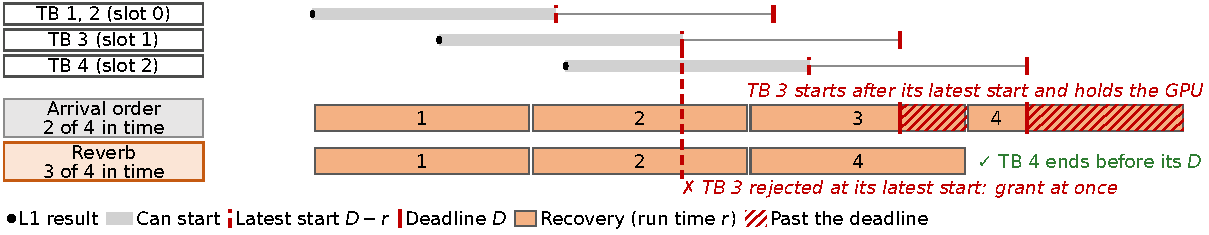
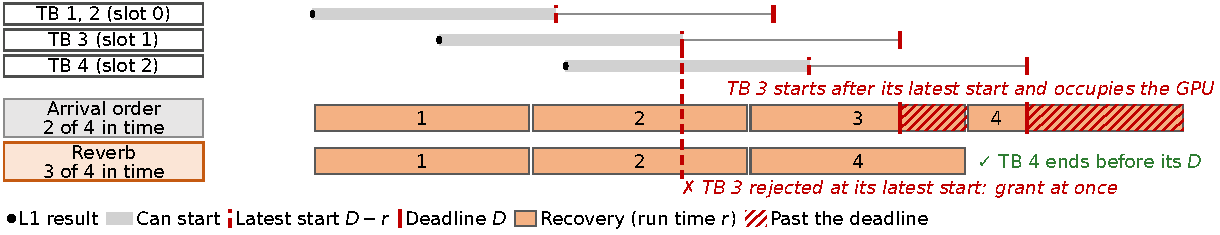
Figure 11 says the late recovery occupies the GPU (no 'holds'); retransmission and lost-TB panels with the second seed set of the direct path (n3_uma_los_more_f35)

diff --git a/figures/paper/src/design_schedule.tex b/figures/paper/src/design_schedule.tex
@@ -2,7 +2,7 @@
 % TB 3 from slot 1 and TB 4 from slot 2.  Each TB can start its recovery from its L1 result until its latest start time
 % D - r and must finish by its deadline D (11.0 ms after its slot; the run time is drawn as the 4.3 ms of the network
 % alone to keep the example short).  In arrival order without rejection, TB 3 starts after its latest start, runs past
-% its deadline and holds the GPU, so TB 4 also ends past its deadline: 2 of 4 TBs are recovered in time.  Reverb rejects
+% its deadline and occupies the GPU, so TB 4 also ends past its deadline: 2 of 4 TBs are recovered in time.  Reverb rejects
 % TB 3 at its latest start (its grant goes out at once) and recovers TB 4: 3 of 4 in time.  With the same deadline rule
 % in every cell, the deadline order equals the arrival order; the difference is the rejection.  No value is printed.
 \documentclass[border=1pt]{standalone}
@@ -27,7 +27,7 @@
     \newcommand{\job}[3]{% start, lane y, label
       \node[cl, fill=nrxc, minimum width={0.585*\r cm - 0.04cm}, minimum height=0.3cm, anchor=west] at (#1 + 0.035, #2) {#3};}
     % arrival order without rejection
-    \node[key, font=\tabsize\itshape, anchor=west] at (10.4, -0.88) {TB 3 starts after its latest start and holds the GPU};
+    \node[key, font=\tabsize\itshape, anchor=west] at (10.0, -0.88) {TB 3 starts after its latest start and occupies the GPU};
     \job{1.9}{-1.2}{1} \job{6.2}{-1.2}{2} \job{10.5}{-1.2}{3} \job{14.8}{-1.2}{}
     \fill[pattern=north east lines, pattern color=dred] (13.5, -1.35) rectangle (14.8, -1.05);
     \fill[pattern=north east lines, pattern color=dred] (16.0, -1.35) rectangle (19.1, -1.05);

diff --git a/figures/paper/src/design_overall.tex b/figures/paper/src/design_overall.tex
@@ -5,7 +5,7 @@
 % code blocks and wait for their recovery, B failed all ten and gets its grant at once; (3) Receiver Selector: cell 2 has
 % interference above theta and uses the NRx trained with interference, cell 1 the NRx trained without it (published);
 % (4) Recovery Scheduler: one recovery per GPU, rejection after D - r; (5) each GPU decodes its TB again from the stored
-% samples between the L1 slots; (6) the result goes to the L2 scheduler, which holds the grants of A and C, schedules the
+% samples between the L1 slots; (6) the result goes to the L2 scheduler, which waits with the grants of A and C, schedules the
 % retransmission of B in the next uplink slot, and delivers A and C once decoded.  No measured value appears.
 \documentclass[border=1pt]{standalone}
 \input{reverb_style}
